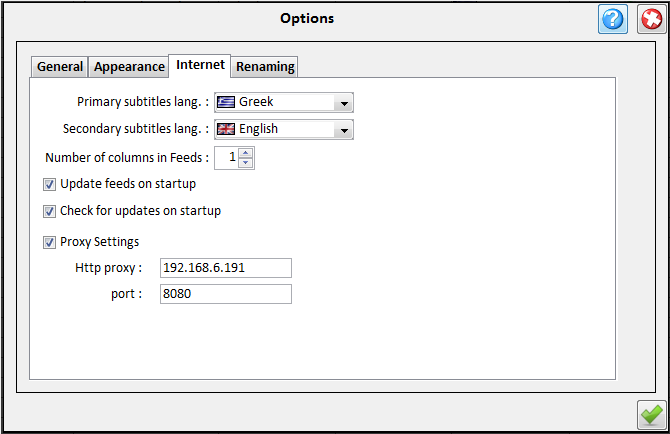
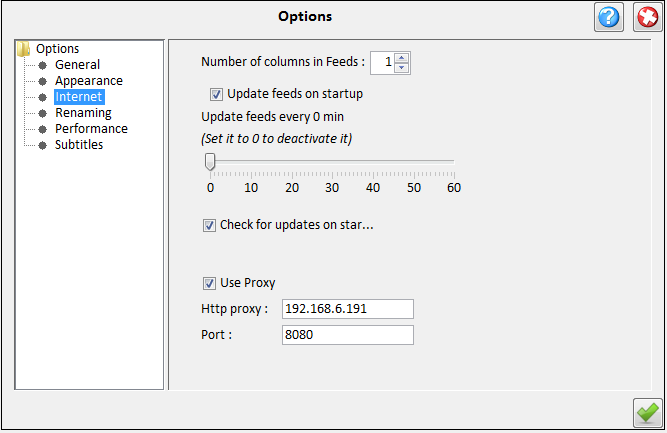
Updated help

diff --git a/src/help/html/internet_options.html b/src/help/html/internet_options.html
@@ -5,27 +5,22 @@
   <tr><td>
       The following options are available in Internet Options<br />
       <ul>
-        <li>
-          <b>Primary subtitle language - </b>
-          The primary language to search when downloading subtitles
-        </li>
-         <li>
-          <b>Secondary subtitle language - </b>
-          The secondary language to search when downloading subtitles
-        </li>
          <li>
           <b>Number of columns in feeds - </b>
           You can select the number of columns shown in the feeds panel.
         </li>
         <li><b>Update feeds on startup - </b> 
           If you want the feeds to be updated when MySerieS starts.</li>
+        <li><b>Update feeds frequancy - </b> 
+          The frequency to auto update feeds.Setting it to 0 will deactivate the 
+        auto update.</li>
         <li>
           <b>Check for updates - </b>
           If the application should check for updates on start up.
         </li>
         <li>
           <b>Proxy settings - </b>
-          If you are behind aproxy you can set the host and port by checking the Proxy
+          If you are behind a proxy you can set the host and port by checking the Proxy
           check box and provide the http host address and port in the textfields.
         </li>
       </ul>

diff --git a/src/help/html/performance_options.html b/src/help/html/performance_options.html
@@ -1,0 +1,27 @@
+<link rel="stylesheet" href="styles.css" type="text/css" />
+<table align="center" class="mainTable">
+  <tr><th>Performance Options</th></tr>
+  <tr><th><img src="../images/performance_options.png"> </th></tr>
+  <tr><td>
+      The following options are available:<br>
+      <ul>
+        <li>
+          <b>Update memory indicator:</b><br />
+          How often the memory indicator on the toolbar will be updated (if it's visible). Setting 
+          this to 0 will remove the indicator from the toolbar.
+        </li>
+        <li>
+          <b>Screenshots quality:</b><br />
+          The quality of the series screenshots on the main application panel and on the schedule.
+        </li>
+        <li>
+          <b>Auto Update</b> - Files : <br />
+          Auto update video and subtitle status from series directories each time you
+          select a series.<br />
+          <b>Auto Update</b> - Extract : <br />
+          Auto extract archived subtitles (zip, rar,7z,gzip and tar extension).This will 
+          delete the zip file after the extraction.
+        </li>
+      </ul>
+    </td></tr>
+</table>

diff --git a/src/help/html/subtitles_options.html b/src/help/html/subtitles_options.html
@@ -1,0 +1,23 @@
+<link rel="stylesheet" href="styles.css" type="text/css" />
+<table align="center" class="mainTable">
+  <tr><th>Subtitle Options</th></tr>
+  <tr><th><img src="../images/subtitle_options.png"> </th></tr>
+  <tr><td>
+      The following options are available:<br>
+      <ul>
+        <li>
+          <b>Primary subtitle language - </b>
+          The primary language to search when downloading subtitles
+        </li>
+         <li>
+          <b>Secondary subtitle language - </b>
+          The secondary language to search when downloading subtitles
+        </li>
+        <li>
+          <b>Search for both languages -</b>
+          When this is checked searching for subtitles will search for both 
+          languages else only for the primary.
+        </li>
+      </ul>
+    </td></tr>
+</table>

diff --git a/src/help/html/options.html b/src/help/html/options.html
@@ -3,12 +3,14 @@
   <tr><th>Options</th></tr>
   <tr><th><img src="../images/options.png"> </th></tr>
   <tr><td>
-      The options dialog consists of a tabbed panel with 4 tabs:<br>
+      The options dialog consists of a panel with the following subpanels:<br>
         <ol>
           <li>The [<span class="link">General Options</span>]</li>
           <li>The [<span class="link">Appearance Options</span>]</li>
           <li>The [<span class="link">Internet Options</span>]</li>
           <li>The [<span class="link">Renaming Options</span>]</li>
+          <li>The [<span class="link">Performance Options</span>]</li>
+          <li>The [<span class="link">Subtitles Options</span>]</li>
         </ol>
         The options are saved in MySeries.ini file.
   </td></tr>

diff --git a/src/help/html/renaming_options.html b/src/help/html/renaming_options.html
@@ -16,11 +16,11 @@
           Series Title[SS]Season[ES]Episodes Number[TS]Episodes Title
         </li>
         <li>
-          Fast single episode renaming. When Checked single episode renaming (By right clicking on 
+          <b>Fast single episode renaming.</b>When Checked single episode renaming (By right clicking on 
           episodes table and choose rename) will rename the files according to the current
           template options without showing the rename panel.
         </li>
-        <li>Auto Renaming. When checked files will be renamed on downloading, unzipping or moving from
+        <li><b>Auto Renaming.</b> When checked files will be renamed on downloading, unzipping or moving from
         the Main Series Directory.</li>
       </ul>
 

diff --git a/src/help/html/general_options.html b/src/help/html/general_options.html
@@ -18,13 +18,6 @@
           can use.
         </li>
         <li>
-          <b>Auto Update</b> - Files : <br />
-          Auto update video and subtitle status from series directories each time you
-          select a series.<br />
-          <b>Auto Update</b> - Extract : <br />
-          Auto extract archived subtitles (zip, rar,7z,gzip and tar extension)
-        </li>
-        <li>
           <b>Video viewer </b> -
           You can choose the application used for viewing the videos or leave it blank
           to use the OS default video viewer.

diff --git a/src/tools/options/OptionsPanel.java b/src/tools/options/OptionsPanel.java
@@ -207,7 +207,7 @@ public class OptionsPanel extends MyDraggable {
           .addComponent(bt_cancel, javax.swing.GroupLayout.PREFERRED_SIZE, javax.swing.GroupLayout.DEFAULT_SIZE, javax.swing.GroupLayout.PREFERRED_SIZE)
           .addComponent(bt_help, javax.swing.GroupLayout.PREFERRED_SIZE, javax.swing.GroupLayout.DEFAULT_SIZE, javax.swing.GroupLayout.PREFERRED_SIZE))
         .addPreferredGap(javax.swing.LayoutStyle.ComponentPlacement.RELATED)
-        .addComponent(splitpane, javax.swing.GroupLayout.DEFAULT_SIZE, 450, Short.MAX_VALUE)
+        .addComponent(splitpane, javax.swing.GroupLayout.DEFAULT_SIZE, 352, Short.MAX_VALUE)
         .addPreferredGap(javax.swing.LayoutStyle.ComponentPlacement.RELATED)
         .addComponent(bt_ok, javax.swing.GroupLayout.PREFERRED_SIZE, javax.swing.GroupLayout.DEFAULT_SIZE, javax.swing.GroupLayout.PREFERRED_SIZE))
     );

diff --git a/src/help/Help.java b/src/help/Help.java
@@ -154,6 +154,10 @@ public class Help extends JFrame {
     treeNode2.add(treeNode3);
     treeNode3 = new javax.swing.tree.DefaultMutableTreeNode("Renaming Options");
     treeNode2.add(treeNode3);
+    treeNode3 = new javax.swing.tree.DefaultMutableTreeNode("Performance Options");
+    treeNode2.add(treeNode3);
+    treeNode3 = new javax.swing.tree.DefaultMutableTreeNode("Subtitles Options");
+    treeNode2.add(treeNode3);
     treeNode1.add(treeNode2);
     treeNode2 = new javax.swing.tree.DefaultMutableTreeNode("MySerieS Online");
     treeNode3 = new javax.swing.tree.DefaultMutableTreeNode("Google Code");

diff --git a/src/tools/options/panels/Subtitles.java b/src/tools/options/panels/Subtitles.java
@@ -88,7 +88,7 @@ public class Subtitles extends javax.swing.JPanel {
     });
 
     jCheckBox1.setSelected(Options.toBoolean(Options.SEARCH_FOR_SECONDARY_SUBTITLE));
-    jCheckBox1.setText("Search for sec language if primary is not found");
+    jCheckBox1.setText("Search for both languages subtitles");
     jCheckBox1.setMargin(new java.awt.Insets(0, 0, 0, 0));
     jCheckBox1.setName(Options.SEARCH_FOR_SECONDARY_SUBTITLE);
 

diff --git a/src/tools/options/panels/Appearance.java b/src/tools/options/panels/Appearance.java
@@ -266,7 +266,7 @@ public class Appearance extends javax.swing.JPanel {
           .addComponent(label_preview, javax.swing.GroupLayout.PREFERRED_SIZE, 22, javax.swing.GroupLayout.PREFERRED_SIZE))
         .addGap(18, 18, 18)
         .addComponent(cb_minimizeTray)
-        .addContainerGap(javax.swing.GroupLayout.DEFAULT_SIZE, Short.MAX_VALUE))
+        .addContainerGap(10, Short.MAX_VALUE))
     );
 
     createLafModel();
